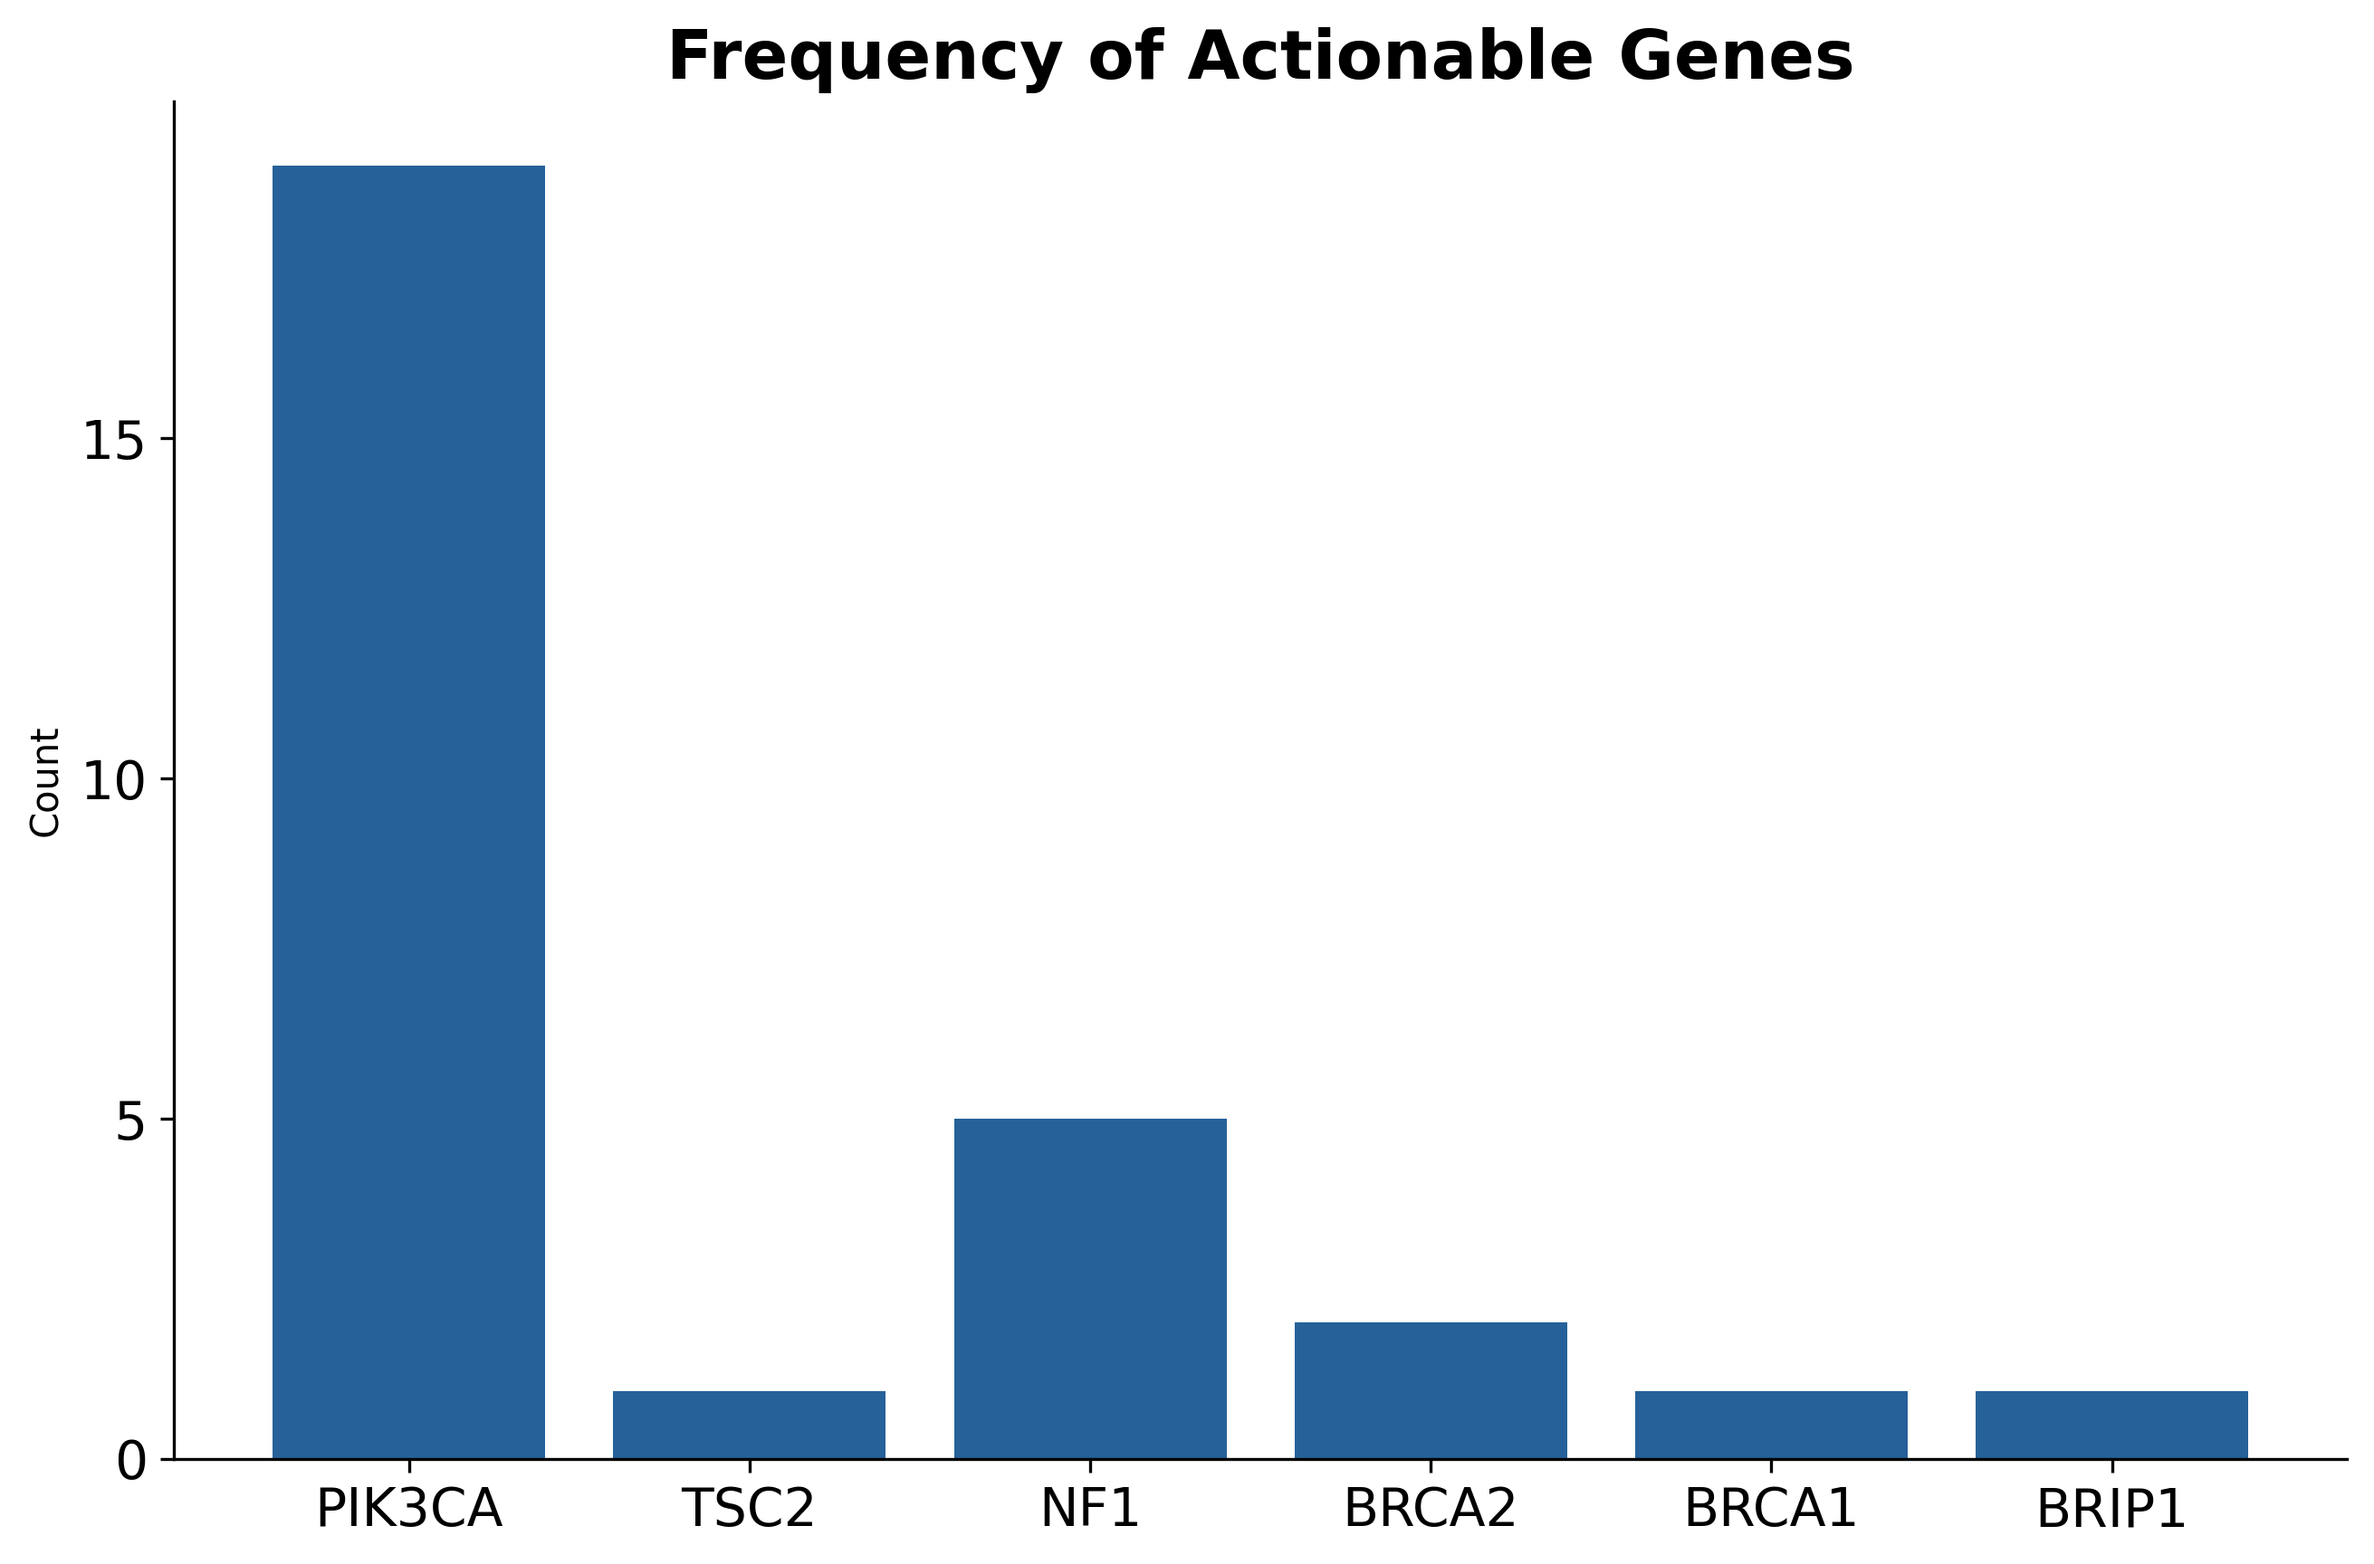
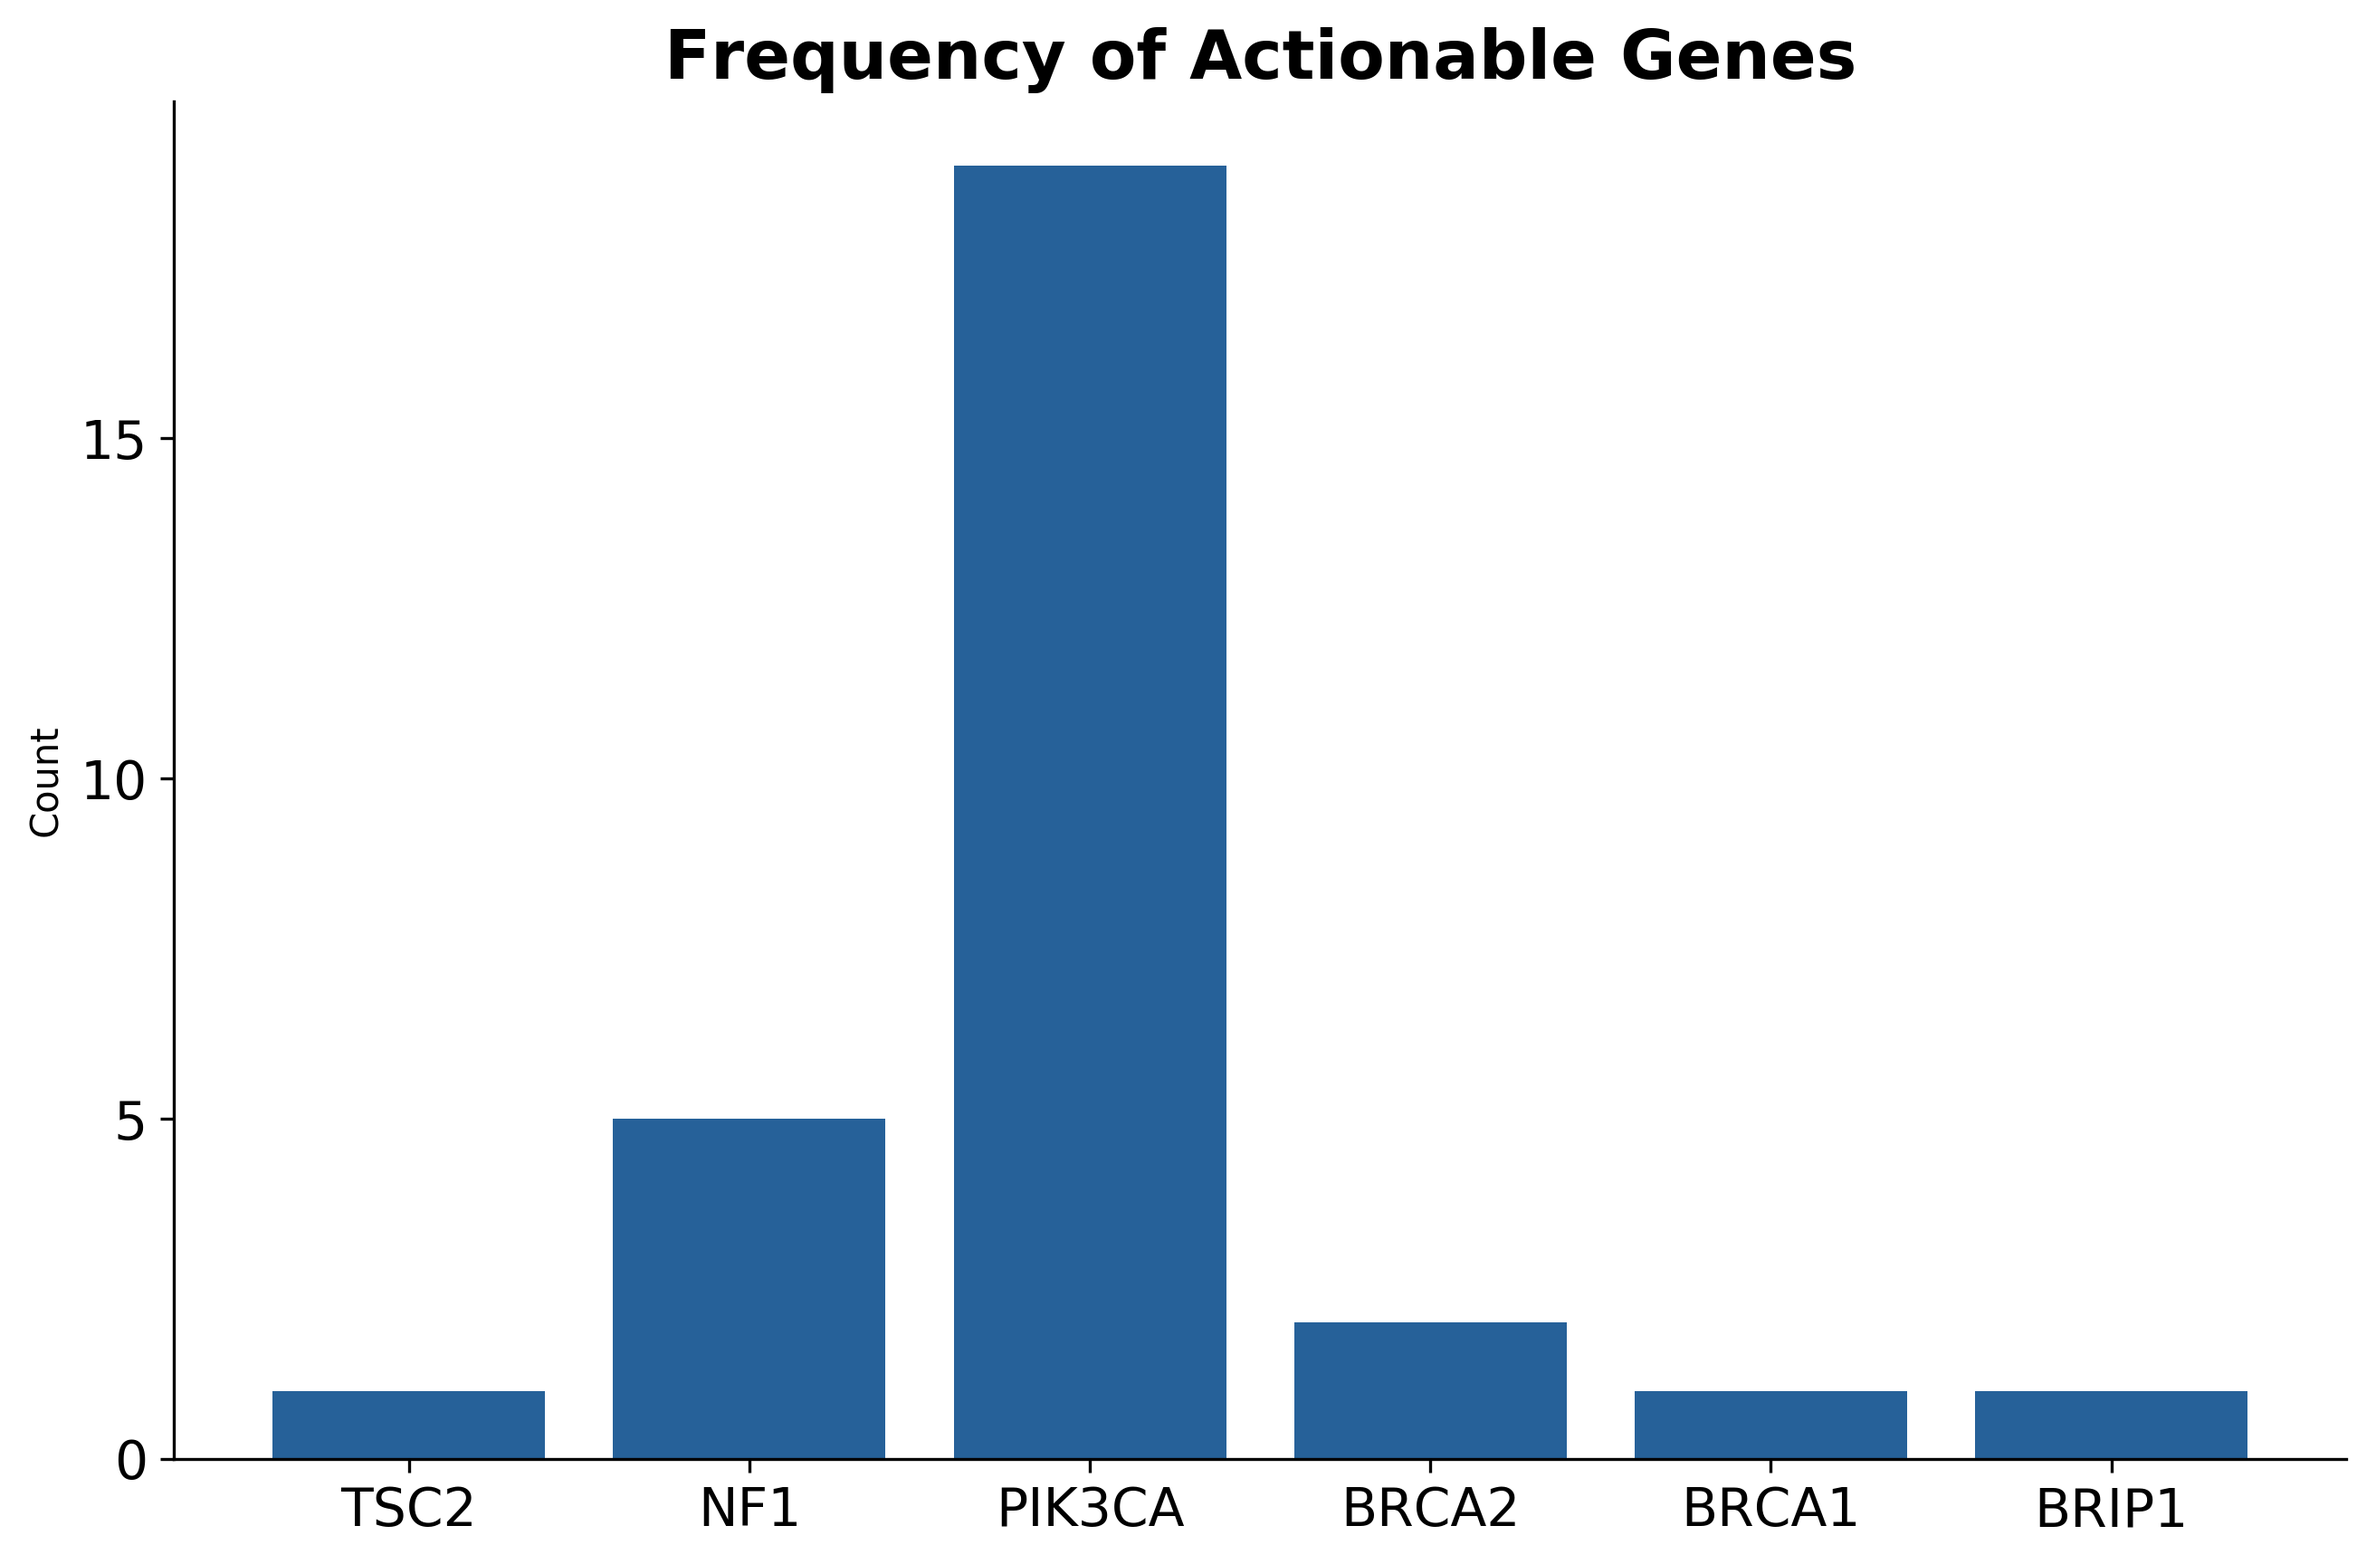
20201017_pic

diff --git a/src/maf_analysis.py b/src/maf_analysis.py
@@ -537,7 +537,7 @@ class OncoKBAnnotator:
         p.close()
         os.chdir("..")
         os.system("rm -rf oncokb-annotator\n")
-        # os.system("rm "+folder+"maf_5col_oncokb_input.txt\n")
+        os.system("rm "+folder+"maf_5col_oncokb_input.txt\n")
         print(colored("=> Generate analysis files: ", 'green'))
         print(colored(("   "+folder+"maf_5col_oncokb_output.txt"), 'green'))
         print(colored(("   " + folder + "clinical_oncokb_output.txt"), 'green'))
@@ -547,13 +547,11 @@ class OncoKBAnnotator:
         df_level = df[['HIGHEST_LEVEL']]
         level_list = ['LEVEL_1', 'LEVEL_2', 'LEVEL_3A', 'LEVEL_3B', 'LEVEL_4']
         level_dict = dict.fromkeys(level_list,0)
-        
         sample_size = df.shape[0]
         for i in range(sample_size):
             if df_level.iloc[i]['HIGHEST_LEVEL'] in level_list:
                 level_dict[df_level.iloc[i]['HIGHEST_LEVEL']] += 1
         true_num = 0
-        
         if level == '4':
             true_num = sum(level_dict.values())
         elif level == '3':
@@ -565,15 +563,16 @@ class OncoKBAnnotator:
         elif level == '1':
             true_num = level_dict['LEVEL_1']
             level_list = ['LEVEL_1']
-
+        # Pie Plot( Total pie plot )
         size = [true_num, sample_size - true_num]
         labels = "Actionable\nbiomarkers","Current absence\nof new actionable\nbiomarkers"
         fig1, ax1 = plt.subplots()
         ax1.pie(size, labels=labels, autopct='%1.1f%%', startangle=90, colors=[COLOR_MAP[0],COLOR_MAP[1]] ,textprops={'fontsize': 11})
         ax1.axis('equal')
         plt.title("Total", fontsize=18, fontweight='bold')
-        plt.savefig(folder+"oncokb_total_pie.png", dpi=300, bbox_inches='tight')
-        print(colored(("=> Generate Pie Plot: " + folder + "oncokb_total_pie.png"), 'green'))
+        plt.savefig(pic+"oncokb_total_pie.png", dpi=300, bbox_inches='tight')
+        print(colored(("=> Generate Pie Plot: " + pic + "oncokb_total_pie.png"), 'green'))
+        # Bar Plot( Frequency of Actionable Genes )
         df_drug_count = df[level_list]
         drug_total_dict = {}
         for i in range(sample_size):
@@ -589,19 +588,19 @@ class OncoKBAnnotator:
                         else:
                             drug_total_dict[drug_name] += 1
         langs,count = list(drug_total_dict.keys()), list(drug_total_dict.values())
+        freq = [i/sample_size for i in count]
         fig2 = plt.figure(figsize=(8,5))
         ax2 = fig2.add_axes([0,0,1,1])
-        ax2.bar(langs, count, color=COLOR_MAP[0])
-        plt.xticks(fontsize=14)
-        ax2.set_yticks(np.arange(0, max(count) + 1, 5))
+        ax2.bar(langs, freq, color=COLOR_MAP[0])
+        plt.xticks(fontsize=16)
+        plt.yticks(fontsize=16)
+        ax2.set_yticks(np.arange(0, 1, 0.2))
         ax2.spines['right'].set_visible(False)
         ax2.spines['top'].set_visible(False)
-        plt.yticks(fontsize=14)
-        plt.ylabel("Count")
-
-        plt.title("Frequency of Actionable Genes", fontsize=18, fontweight='bold')
-        plt.savefig(folder+"oncokb_actionable_genes.png", dpi=300,bbox_inches='tight')
-        print(colored(("=> Generate Bar Plot: " + pic + "oncokb_actionable_genes.png"), 'green'))
+        plt.ylabel("Percentage", fontsize=18)
+        plt.title("Frequency of Actionable Genes", fontsize=20, fontweight='bold')
+        plt.savefig(pic+"oncokb_freq_actionable_genes.png", dpi=300,bbox_inches='tight')
+        print(colored(("=> Generate Bar Plot: " + pic + "oncokb_freq_actionable_genes.png"), 'green'))
 
 # 7. HRD score
 class HRDScore:
@@ -631,7 +630,8 @@ class HRDScore:
         final_df.to_csv(folder + "all_HRDresults.csv",  index=False)
         print(colored("=> Generate analysis files: ", 'green'))
         print(colored(("   " + folder + "all_HRDresults.csv"), 'green'))
-    def plotting(self, folder):
+    def plotting(self, folder, pic):
+        #Bar Plot
         df = pd.read_csv(folder+"all_HRDresults.csv")
         size = df.shape[0]
         HRD = tuple(list(df['HRD']))
@@ -643,25 +643,30 @@ class HRDScore:
         width = 0.8
         fig = plt.figure(figsize=(12, 6))
         ax = fig.add_axes([0,0,1,1])
-        ax.bar(ind, HRD, width, color='#266199')
-        ax.bar(ind, TAI, width,bottom=HRD, color='#b7d5ea')
-        ax.bar(ind, LST, width,bottom=np.array(TAI)+np.array(HRD), color='#acc6aa')
-        ax.set_ylabel('Scores')
-        ax.set_title('HRD Scores',fontsize=18, fontweight='bold')
-        plt.xticks(ind, Sample,rotation=45,horizontalalignment='right',fontweight='light')
+        ax.bar(ind, HRD, width, color=COLOR_MAP[7])
+        ax.bar(ind, TAI, width,bottom=HRD, color=COLOR_MAP[2])
+        ax.bar(ind, LST, width,bottom=np.array(TAI)+np.array(HRD), color=COLOR_MAP[6])
+        ax.spines['right'].set_visible(False)
+        ax.spines['top'].set_visible(False)
+        ax.set_ylabel('Scores', fontsize=18)
+        
+        ax.set_title('HRD Scores',fontsize=24, fontweight='bold')
+        plt.xticks(ind, Sample,rotation=45,horizontalalignment='right',fontweight='light', fontsize=12)
+        plt.yticks(fontsize=16)
         ax.set_yticks(np.arange(0, max(SUM)+3, 10))
-        ax.legend(labels=['HRD','Telomeric_AI','LST'])
-        plt.savefig(folder+"HRD_Score.png", dpi=300,bbox_inches='tight')
-        print(colored(("=> Generate Bar Plot: " + folder + "HRD_Score.png"), 'green'))
+        ax.legend(labels=['HRD','Telomeric_AI','LST'], fontsize=14)
+        plt.savefig(pic+"HRD_Score.png", dpi=300,bbox_inches='tight')
+        print(colored(("=> Generate Bar Plot: " + pic + "HRD_Score.png"), 'green'))
+        #Pie Plot
         over = len([i for i in SUM if i >=42])
         data = [over, size-over]
         labels='≧ 42','< 42'
         fig1, ax1 = plt.subplots()
-        ax1.pie(data, labels=labels, autopct='%1.1f%%', startangle=90, colors=['#266199','#b7d5ea'] ,textprops={'fontsize': 11})
+        ax1.pie(data, labels=labels, autopct='%1.1f%%', startangle=90, colors=[COLOR_MAP[7],COLOR_MAP[2]] ,textprops={'fontsize': 14})
         ax1.axis('equal')
-        plt.title("Propotion of Samples with HRD Phenotype", fontsize=18, fontweight='bold')
-        plt.savefig(folder+"high_HRD_pie.png", dpi=300, bbox_inches='tight')
-        print(colored(("=> Generate Pie Plot: " + folder + "high_HRD_pie.png"), 'green'))
+        plt.title("Propotion of Samples with HRD Phenotype", fontsize=20, fontweight='bold')
+        plt.savefig(pic+"high_HRD_pie.png", dpi=300, bbox_inches='tight')
+        print(colored(("=> Generate Pie Plot: " + pic + "high_HRD_pie.png"), 'green'))
 
 #8. WGD and CIN
 class WGDnCIN:
@@ -695,7 +700,7 @@ class WGDnCIN:
         print(colored("=> Generate analysis files: ", 'green'))
         print(colored(("   " + folder + "WGD_result.csv"), 'green'))
         print(colored(("   " + folder + "CIN_result.csv"), 'green'))
-    def plotting(self, folder):
+    def plotting(self, folder, pic):
         # WGD Pie Plot
         wgd_df = pd.read_csv(folder+"WGD_result.csv")
         data = [0,0]
@@ -704,13 +709,13 @@ class WGDnCIN:
                 data[1]+=1
             elif wgd_df[['WGD']].iloc[i]['WGD'] == True:
                 data[0]+=1
-        labels = 'True','False'
+        labels = 'WGD','Non-WGD'
         fig1, ax1 = plt.subplots()
-        ax1.pie(data, labels=labels, autopct='%1.1f%%', startangle=90, colors=['#266199','#b7d5ea'] ,textprops={'fontsize': 11})
+        ax1.pie(data, labels=labels, autopct='%1.1f%%', startangle=90, colors=[COLOR_MAP[3],COLOR_MAP[4]] ,textprops={'fontsize': 14})
         ax1.axis('equal')
-        plt.title("Propotion of Samples with WGD", fontsize=18, fontweight='bold')
-        plt.savefig(folder+"WGD_pie.png", dpi=300, bbox_inches='tight')
-        print(colored(("=> Generate Pie Plot: " + folder + "WGD_pie.png"), 'green'))
+        plt.title("Propotion of Samples with WGD", fontsize=20, fontweight='bold')
+        plt.savefig(pic+"WGD_pie.png", dpi=300, bbox_inches='tight')
+        print(colored(("=> Generate Pie Plot: " + pic + "WGD_pie.png"), 'green'))
         
         # CIN Bar plot
         CIN_df = pd.read_csv(folder+"CIN_result.csv")
@@ -722,11 +727,14 @@ class WGDnCIN:
         width = 0.8
         fig = plt.figure(figsize=(12, 6))
         ax = fig.add_axes([0,0,1,1])
-        ax.bar(ind, CIN, width, color='#266199')
-        ax.set_ylabel('Scores')
-        ax.set_title('CIN Scores',fontsize=18, fontweight='bold')
-        plt.xticks(ind, Sample,rotation=45,horizontalalignment='right',fontweight='light')
+        ax.bar(ind, CIN, width, color=COLOR_MAP[4])
+        ax.set_ylabel('Scores', fontsize=20)
+        ax.set_title('CIN Scores',fontsize=24, fontweight='bold')
+        plt.xticks(ind, Sample,rotation=45,horizontalalignment='right',fontweight='light', fontsize=12)
+        plt.yticks(fontsize=16)
+        ax.spines['right'].set_visible(False)
+        ax.spines['top'].set_visible(False)
         ax.set_yticks(np.arange(0, 1, 0.2))
-        plt.savefig(folder+"CIN_Score.png", dpi=300,bbox_inches='tight')
-        print(colored(("=> Generate Bar Plot: " + folder + "CIN_Score.png"), 'green'))
+        plt.savefig(pic+"CIN_Score.png", dpi=300,bbox_inches='tight')
+        print(colored(("=> Generate Bar Plot: " + pic + "CIN_Score.png"), 'green'))
 

diff --git a/maf_analysis.py b/maf_analysis.py
@@ -89,12 +89,12 @@ def main():
     if args.hrd_score:
         df = HRDScore(args.hrd_score[0])
         df.data_analysis(folder, args.hrd_score[1])
-        df.plotting(folder)
+        df.plotting(folder, pic)
     #8. WGD and CIN
     if args.wgd_cin:
         df = WGDnCIN(args.wgd_cin[0])
         df.data_analysis(folder)
-        df.plotting(folder)
+        df.plotting(folder, pic)
 
 if __name__ == "__main__":
     main()
